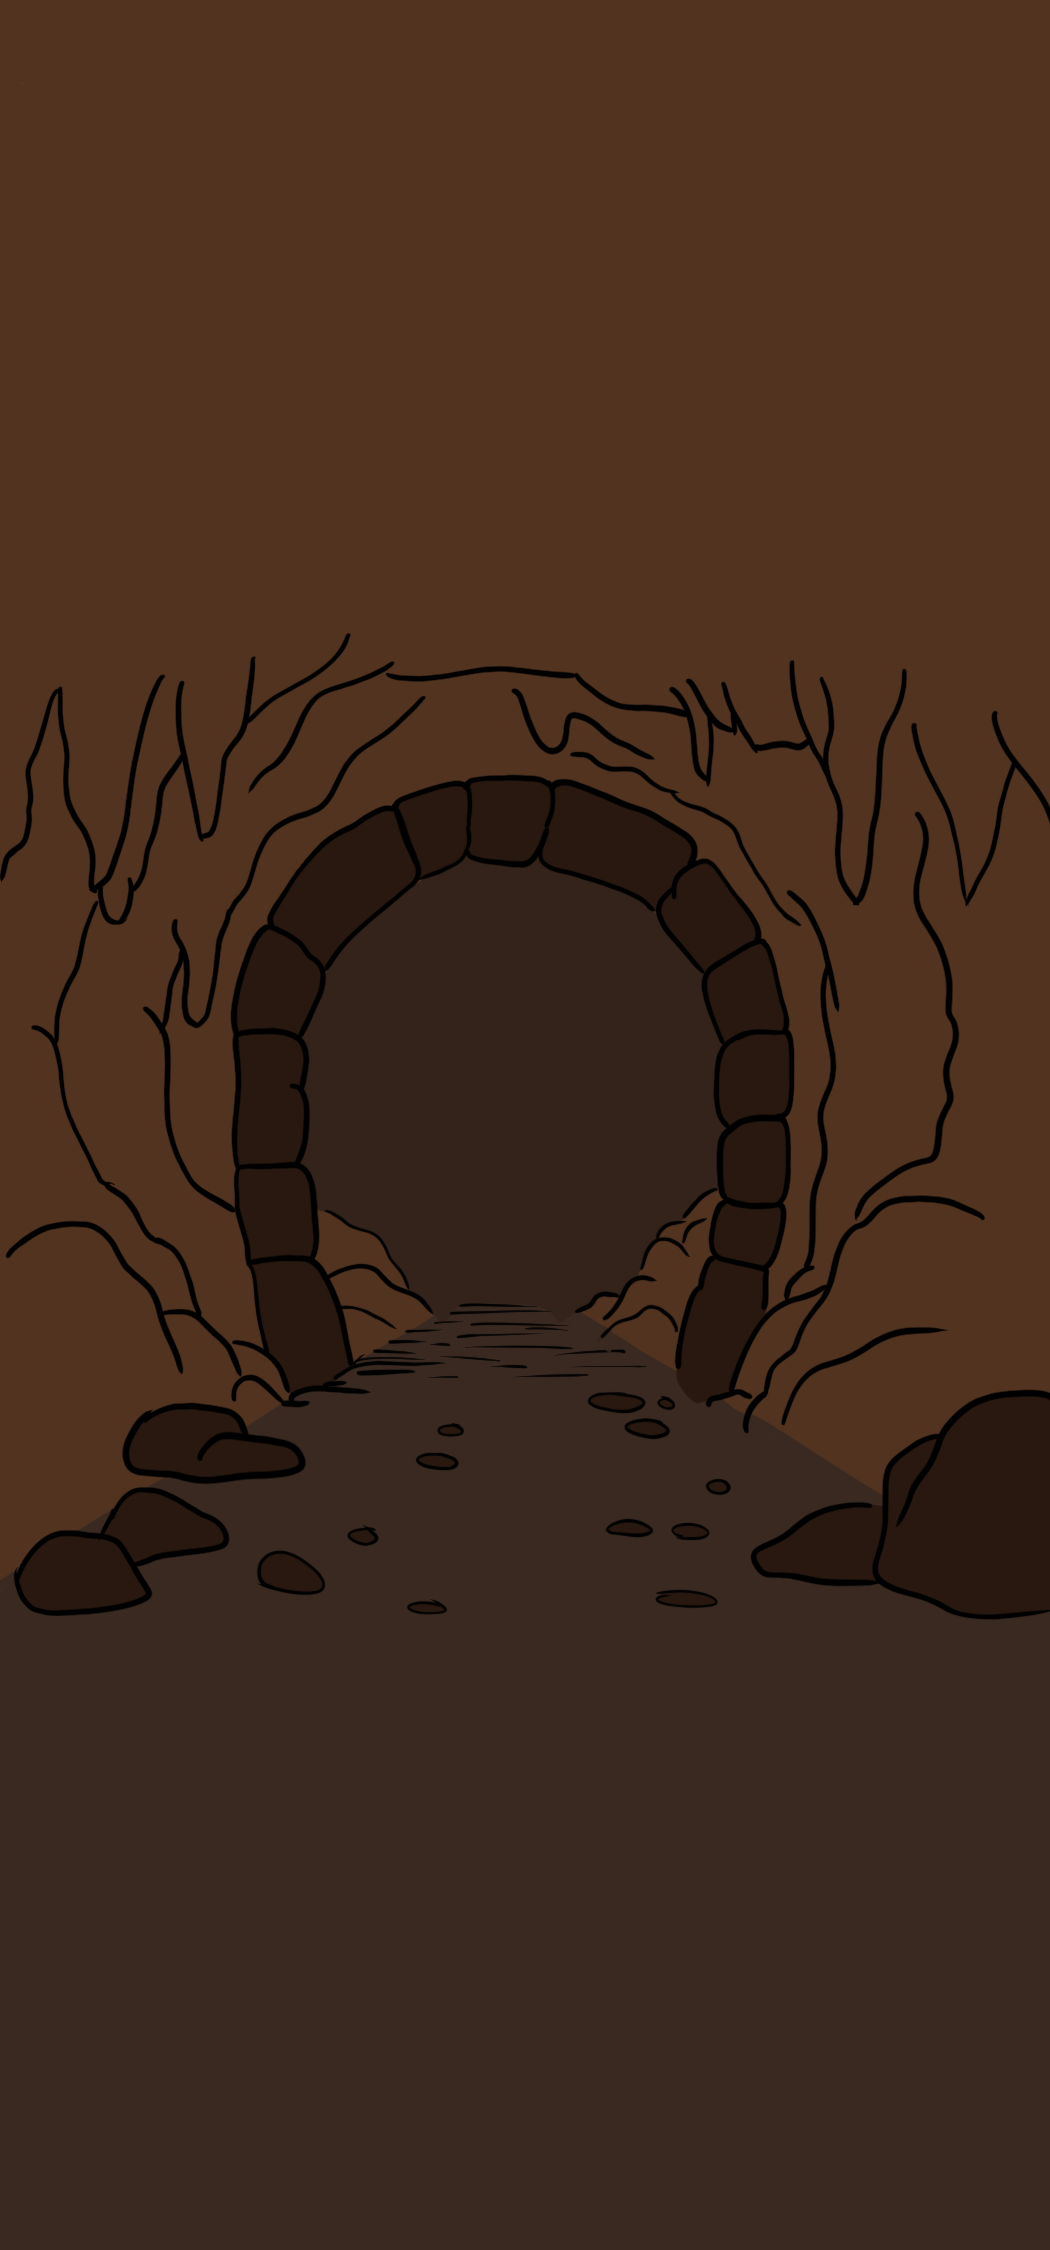
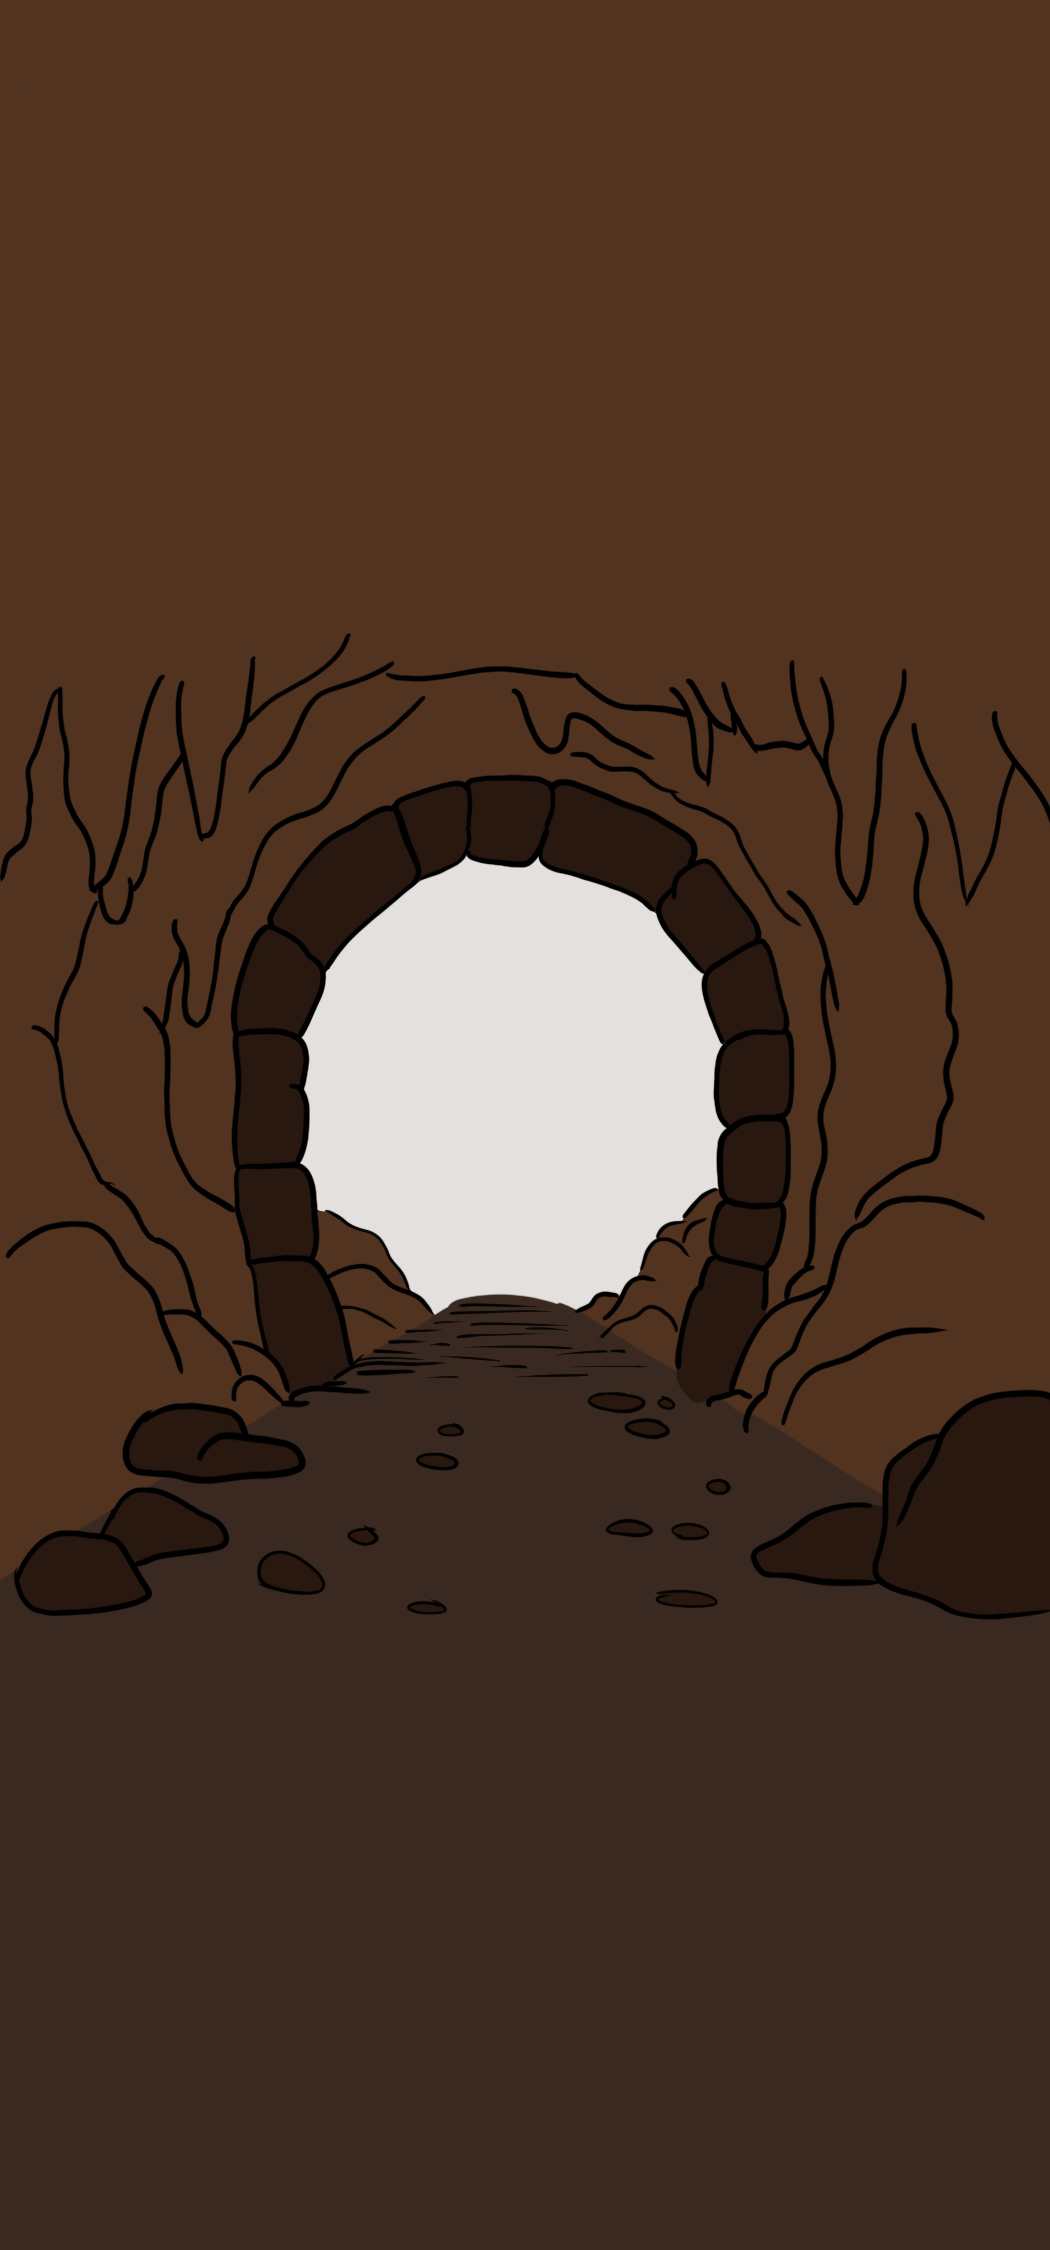
improve inside tunnel

Changed region(s): [[0.2743, 0.3733, 0.701, 0.5911]]

diff --git a/app/tunnel/page.tsx b/app/tunnel/page.tsx
@@ -30,8 +30,6 @@ const getPointsPath = () => {
     [150, 112, 8],
     [157, 73, 0],
     [180, 44, 5],
-    [207, 35, 10],
-    [232, 36, 0],
   ];
 
   //Convert the array of points into vertices
@@ -240,20 +238,25 @@ export default function App() {
           <Animation
             tween={{
               start: turnTimeline[turnTimeline.length - 1].start,
-              end: 100,
+              end: 50,
               target: inTunnelRef,
               to: {
-                transform: 'scale(7)',
-                ease: 'linear'
-              }
-
+                transform: "scale(10)",
+                ease: "linear",
+              },
             }}
           />
-          <Image ref={inTunnelRef} src="/tunnel-inside.png" fill={true} alt="inside tunnel" className={`${styles['tunnel-inside']}`} />
+          <Image
+            ref={inTunnelRef}
+            src="/tunnel-inside.png"
+            fill={true}
+            alt="inside tunnel"
+            className={`${styles["tunnel-inside"]}`}
+          />
           <Canvas>
             <Animation
               tween={{
-                start: 0,
+                start: turnTimeline[turnTimeline.length - 1].start,
                 end: 100,
                 target: progress,
                 to: {
@@ -286,7 +289,7 @@ export default function App() {
               to: {
                 top: "40%",
                 left: "0%",
-                transform: "scale(0.75)",
+                transform: "scale(0.50)",
                 onUpdate: function () {
                   const point = this.progress() * 100;
                   const closest = findClosestFrame(runTimeline, point);
